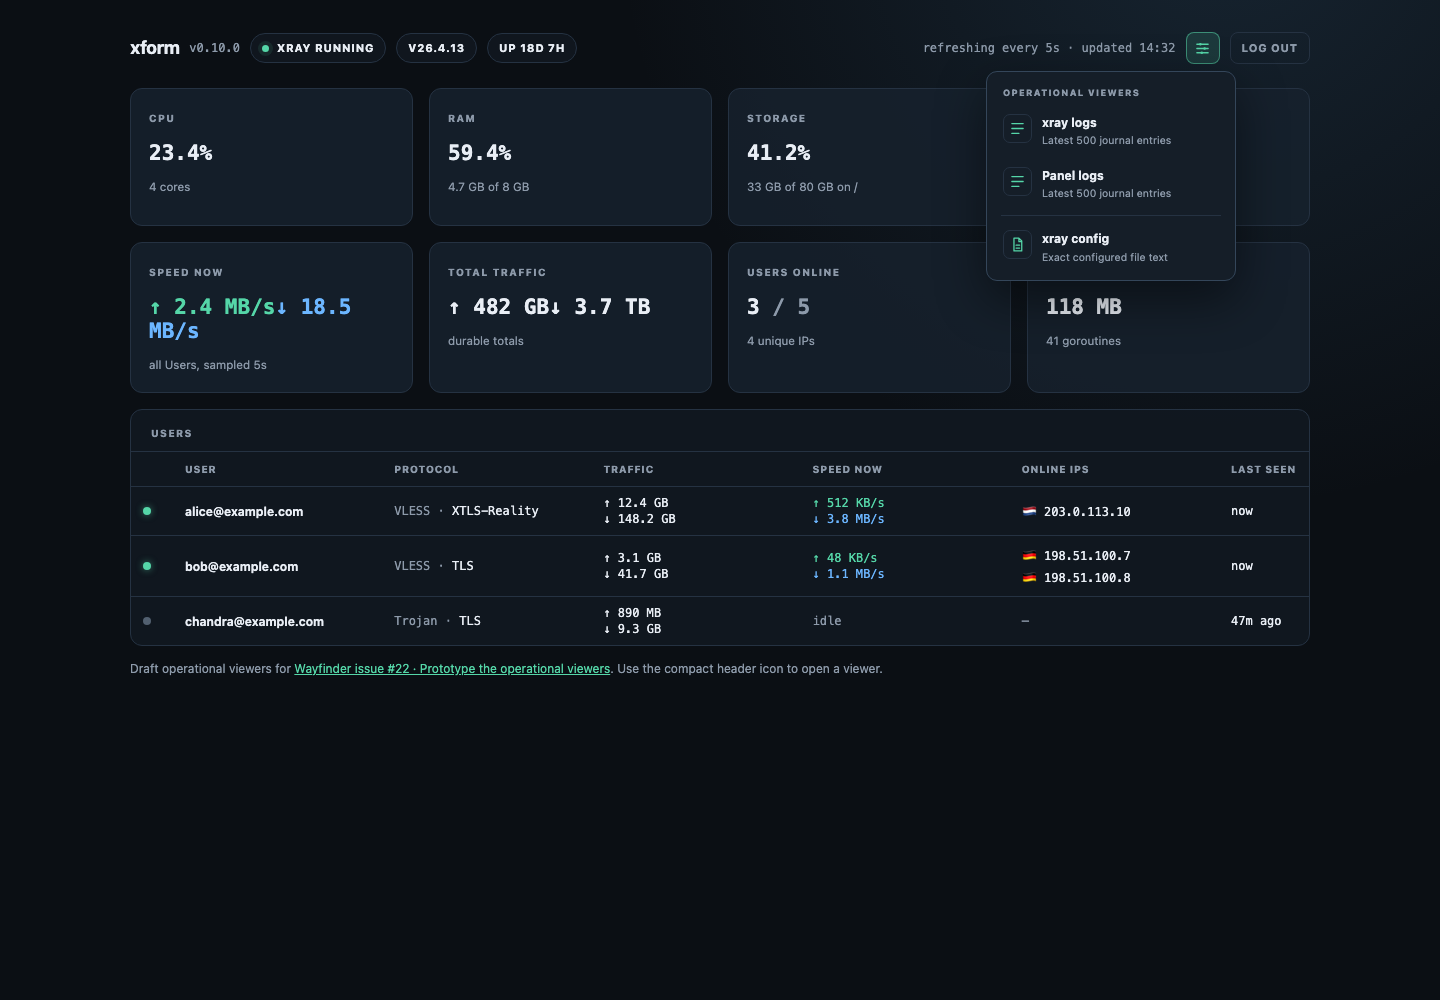
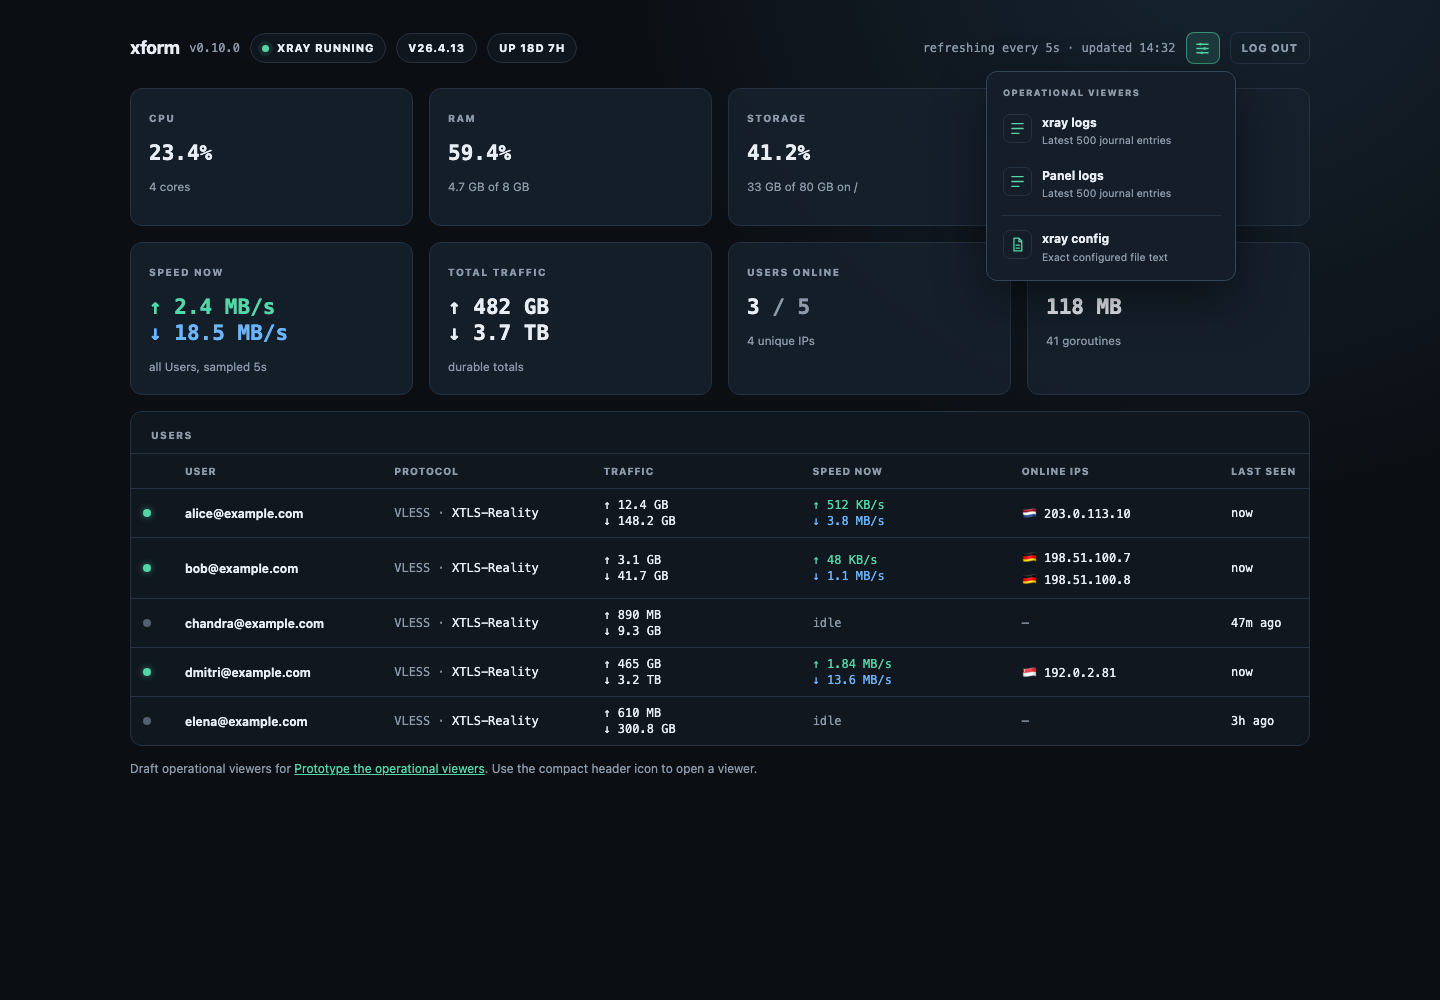
fix(docs): align operational viewer prototype facts

diff --git a/docs/prototypes/operational-viewers.html b/docs/prototypes/operational-viewers.html
@@ -3,7 +3,7 @@
 <head>
 <meta charset="utf-8">
 <meta name="viewport" content="width=device-width, initial-scale=1">
-<title>xform operational viewers prototype · issue #22</title>
+<title>xform operational viewers prototype · Prototype the operational viewers</title>
 <style>
   :root {
     color-scheme: dark;
@@ -84,6 +84,7 @@
   .metric { min-height: 138px; padding: 18px; border: 1px solid var(--border); border-radius: 12px; background: rgba(23, 33, 45, 0.84); }
   .eyebrow { color: var(--muted); font-size: 10px; font-weight: 800; letter-spacing: 0.13em; text-transform: uppercase; }
   .metric strong { display: block; margin-top: 14px; font: 600 21px var(--mono); }
+  .metric strong.two-line { display: grid; }
   .metric small { display: block; margin-top: 14px; color: var(--muted); }
   .up { color: var(--primary); }
   .down { color: var(--info); }
@@ -207,12 +208,14 @@
       <thead><tr><th style="width:42px" aria-label="Online"></th><th>User</th><th>Protocol</th><th class="wide-hide">Traffic</th><th class="wide-hide">Speed now</th><th class="wide-hide">Online IPs</th><th style="width:90px">Last seen</th></tr></thead>
       <tbody>
         <tr><td><span class="presence-dot online"></span></td><td class="user-cell">alice@example.com</td><td><span class="muted">VLESS ·</span> XTLS-Reality</td><td class="wide-hide"><span class="two-line"><span>↑ 12.4 GB</span><span>↓ 148.2 GB</span></span></td><td class="wide-hide"><span class="two-line"><span class="up">↑ 512 KB/s</span><span class="down">↓ 3.8 MB/s</span></span></td><td class="wide-hide">🇳🇱 203.0.113.10</td><td>now</td></tr>
-        <tr><td><span class="presence-dot online"></span></td><td class="user-cell">bob@example.com</td><td><span class="muted">VLESS ·</span> TLS</td><td class="wide-hide"><span class="two-line"><span>↑ 3.1 GB</span><span>↓ 41.7 GB</span></span></td><td class="wide-hide"><span class="two-line"><span class="up">↑ 48 KB/s</span><span class="down">↓ 1.1 MB/s</span></span></td><td class="wide-hide"><span class="two-line"><span>🇩🇪 198.51.100.7</span><span>🇩🇪 198.51.100.8</span></span></td><td>now</td></tr>
-        <tr><td><span class="presence-dot"></span></td><td class="user-cell">chandra@example.com</td><td><span class="muted">Trojan ·</span> TLS</td><td class="wide-hide"><span class="two-line"><span>↑ 890 MB</span><span>↓ 9.3 GB</span></span></td><td class="wide-hide"><span class="muted">idle</span></td><td class="wide-hide"><span class="muted">—</span></td><td>47m ago</td></tr>
+        <tr><td><span class="presence-dot online"></span></td><td class="user-cell">bob@example.com</td><td><span class="muted">VLESS ·</span> XTLS-Reality</td><td class="wide-hide"><span class="two-line"><span>↑ 3.1 GB</span><span>↓ 41.7 GB</span></span></td><td class="wide-hide"><span class="two-line"><span class="up">↑ 48 KB/s</span><span class="down">↓ 1.1 MB/s</span></span></td><td class="wide-hide"><span class="two-line"><span>🇩🇪 198.51.100.7</span><span>🇩🇪 198.51.100.8</span></span></td><td>now</td></tr>
+        <tr><td><span class="presence-dot"></span></td><td class="user-cell">chandra@example.com</td><td><span class="muted">VLESS ·</span> XTLS-Reality</td><td class="wide-hide"><span class="two-line"><span>↑ 890 MB</span><span>↓ 9.3 GB</span></span></td><td class="wide-hide"><span class="muted">idle</span></td><td class="wide-hide"><span class="muted">—</span></td><td>47m ago</td></tr>
+        <tr><td><span class="presence-dot online"></span></td><td class="user-cell">dmitri@example.com</td><td><span class="muted">VLESS ·</span> XTLS-Reality</td><td class="wide-hide"><span class="two-line"><span>↑ 465 GB</span><span>↓ 3.2 TB</span></span></td><td class="wide-hide"><span class="two-line"><span class="up">↑ 1.84 MB/s</span><span class="down">↓ 13.6 MB/s</span></span></td><td class="wide-hide">🇸🇬 192.0.2.81</td><td>now</td></tr>
+        <tr><td><span class="presence-dot"></span></td><td class="user-cell">elena@example.com</td><td><span class="muted">VLESS ·</span> XTLS-Reality</td><td class="wide-hide"><span class="two-line"><span>↑ 610 MB</span><span>↓ 300.8 GB</span></span></td><td class="wide-hide"><span class="muted">idle</span></td><td class="wide-hide"><span class="muted">—</span></td><td>3h ago</td></tr>
       </tbody>
     </table>
   </section>
-  <p class="prototype-note">Draft operational viewers for <a href="https://github.com/yet-an-other/xform/issues/22">Wayfinder issue #22 · Prototype the operational viewers</a>. Use the compact header icon to open a viewer.</p>
+  <p class="prototype-note">Draft operational viewers for <a href="https://github.com/yet-an-other/xform/issues/22">Prototype the operational viewers</a>. Use the compact header icon to open a viewer.</p>
 </main>
 
 <div class="dialog-layer" id="dialogLayer" hidden>
@@ -241,15 +244,12 @@
 
 <textarea id="configSource" hidden>{
   "log": {
-    "loglevel": "warning",
-    "access": "/var/log/xray/access.log",
-    "error": "/var/log/xray/error.log"
+    "loglevel": "warning"
   },
   "api": {
     "tag": "api",
+    "listen": "127.0.0.1:8080",
     "services": [
-      "HandlerService",
-      "LoggerService",
       "StatsService"
     ]
   },
@@ -262,7 +262,8 @@
         "uplinkOnly": 2,
         "downlinkOnly": 5,
         "statsUserUplink": true,
-        "statsUserDownlink": true
+        "statsUserDownlink": true,
+        "statsUserOnline": true
       }
     },
     "system": {
@@ -288,6 +289,21 @@
           {
             "id": "7ac08767-f53d-4eaf-8311-a91e6c92c143",
             "email": "bob@example.com",
+            "flow": "xtls-rprx-vision"
+          },
+          {
+            "id": "0e35510d-619e-4ce6-88bd-5fd5027569bc",
+            "email": "chandra@example.com",
+            "flow": "xtls-rprx-vision"
+          },
+          {
+            "id": "75b624d4-00b4-4612-bb7d-8a702e59fc85",
+            "email": "dmitri@example.com",
+            "flow": "xtls-rprx-vision"
+          },
+          {
+            "id": "829aa4a2-3fc1-4312-8bf0-a4e09ea51e62",
+            "email": "elena@example.com",
             "flow": "xtls-rprx-vision"
           }
         ],
@@ -320,15 +336,6 @@
         ],
         "routeOnly": true
       }
-    },
-    {
-      "tag": "api-inbound",
-      "listen": "127.0.0.1",
-      "port": 10085,
-      "protocol": "dokodemo-door",
-      "settings": {
-        "address": "127.0.0.1"
-      }
     }
   ],
   "outbounds": [
@@ -352,13 +359,6 @@
   "routing": {
     "domainStrategy": "IPIfNonMatch",
     "rules": [
-      {
-        "type": "field",
-        "inboundTag": [
-          "api-inbound"
-        ],
-        "outboundTag": "api"
-      },
       {
         "type": "field",
         "ip": [
@@ -412,14 +412,14 @@ const xrayTemplates = [
 ];
 
 const panelTemplates = [
-  { priority: "info", message: "HTTP request completed method=GET path=/api/status/xray status=200 duration_ms=8 remote_addr=127.0.0.1:48624", unit: "xform" },
+  { priority: "info", message: "HTTP request completed method=GET path=/api/v1/xray status=200 duration_ms=8 remote_addr=127.0.0.1:48624", unit: "xform" },
   { priority: "info", message: "observation cycle completed host_ms=3 xray_ms=14 roster_users=5 online_users=3 durable_deltas=4", unit: "xform" },
-  { priority: "notice", message: "roster reloaded path=/usr/local/etc/xray/config.json inbounds=2 users=5 profiles=6", unit: "xform" },
+  { priority: "notice", message: "roster reloaded path=/usr/local/etc/xray/config.json inbounds=1 users=5 profiles=5", unit: "xform" },
   { priority: "warning", message: "presence RPC returned incomplete IP data user=chandra@example.com rpc=GetOnlineUsers detail=\"accepted response without address metadata; preserving last-seen and reporting no current IPs\"", unit: "xform" },
   { priority: "info", message: "traffic sample persisted sequence=194408 xray_uplink_delta=245761 xray_downlink_delta=3879204 users_changed=3 transaction_ms=6", unit: "xform" },
-  { priority: "error", message: "xray observation failed attempt=1 endpoint=127.0.0.1:10085 error=\"rpc error: code = Unavailable desc = connection error: desc = transport: Error while dialing: dial tcp 127.0.0.1:10085: connect: connection refused\"\nnext_retry=5s Dashboard_mode=degraded", unit: "xform" },
+  { priority: "error", message: "xray observation failed attempt=1 endpoint=127.0.0.1:8080 error=\"rpc error: code = Unavailable desc = connection error: desc = transport: Error while dialing: dial tcp 127.0.0.1:8080: connect: connection refused\"\nnext_retry=5s Dashboard_mode=degraded", unit: "xform" },
   { priority: "info", message: "session continued idle_age=3m14s expires_in=23h56m request_id=01JSE4QXJ83BXJQR2H4M7P0NNP", unit: "xform" },
-  { priority: "info", message: "HTTP request completed method=GET path=/api/users status=200 duration_ms=12 response_bytes=4817 remote_addr=192.0.2.44:53108", unit: "xform" }
+  { priority: "info", message: "HTTP request completed method=GET path=/api/v1/users status=200 duration_ms=12 response_bytes=4817 remote_addr=192.0.2.44:53108", unit: "xform" }
 ];
 
 function escapeHtml(value) {
